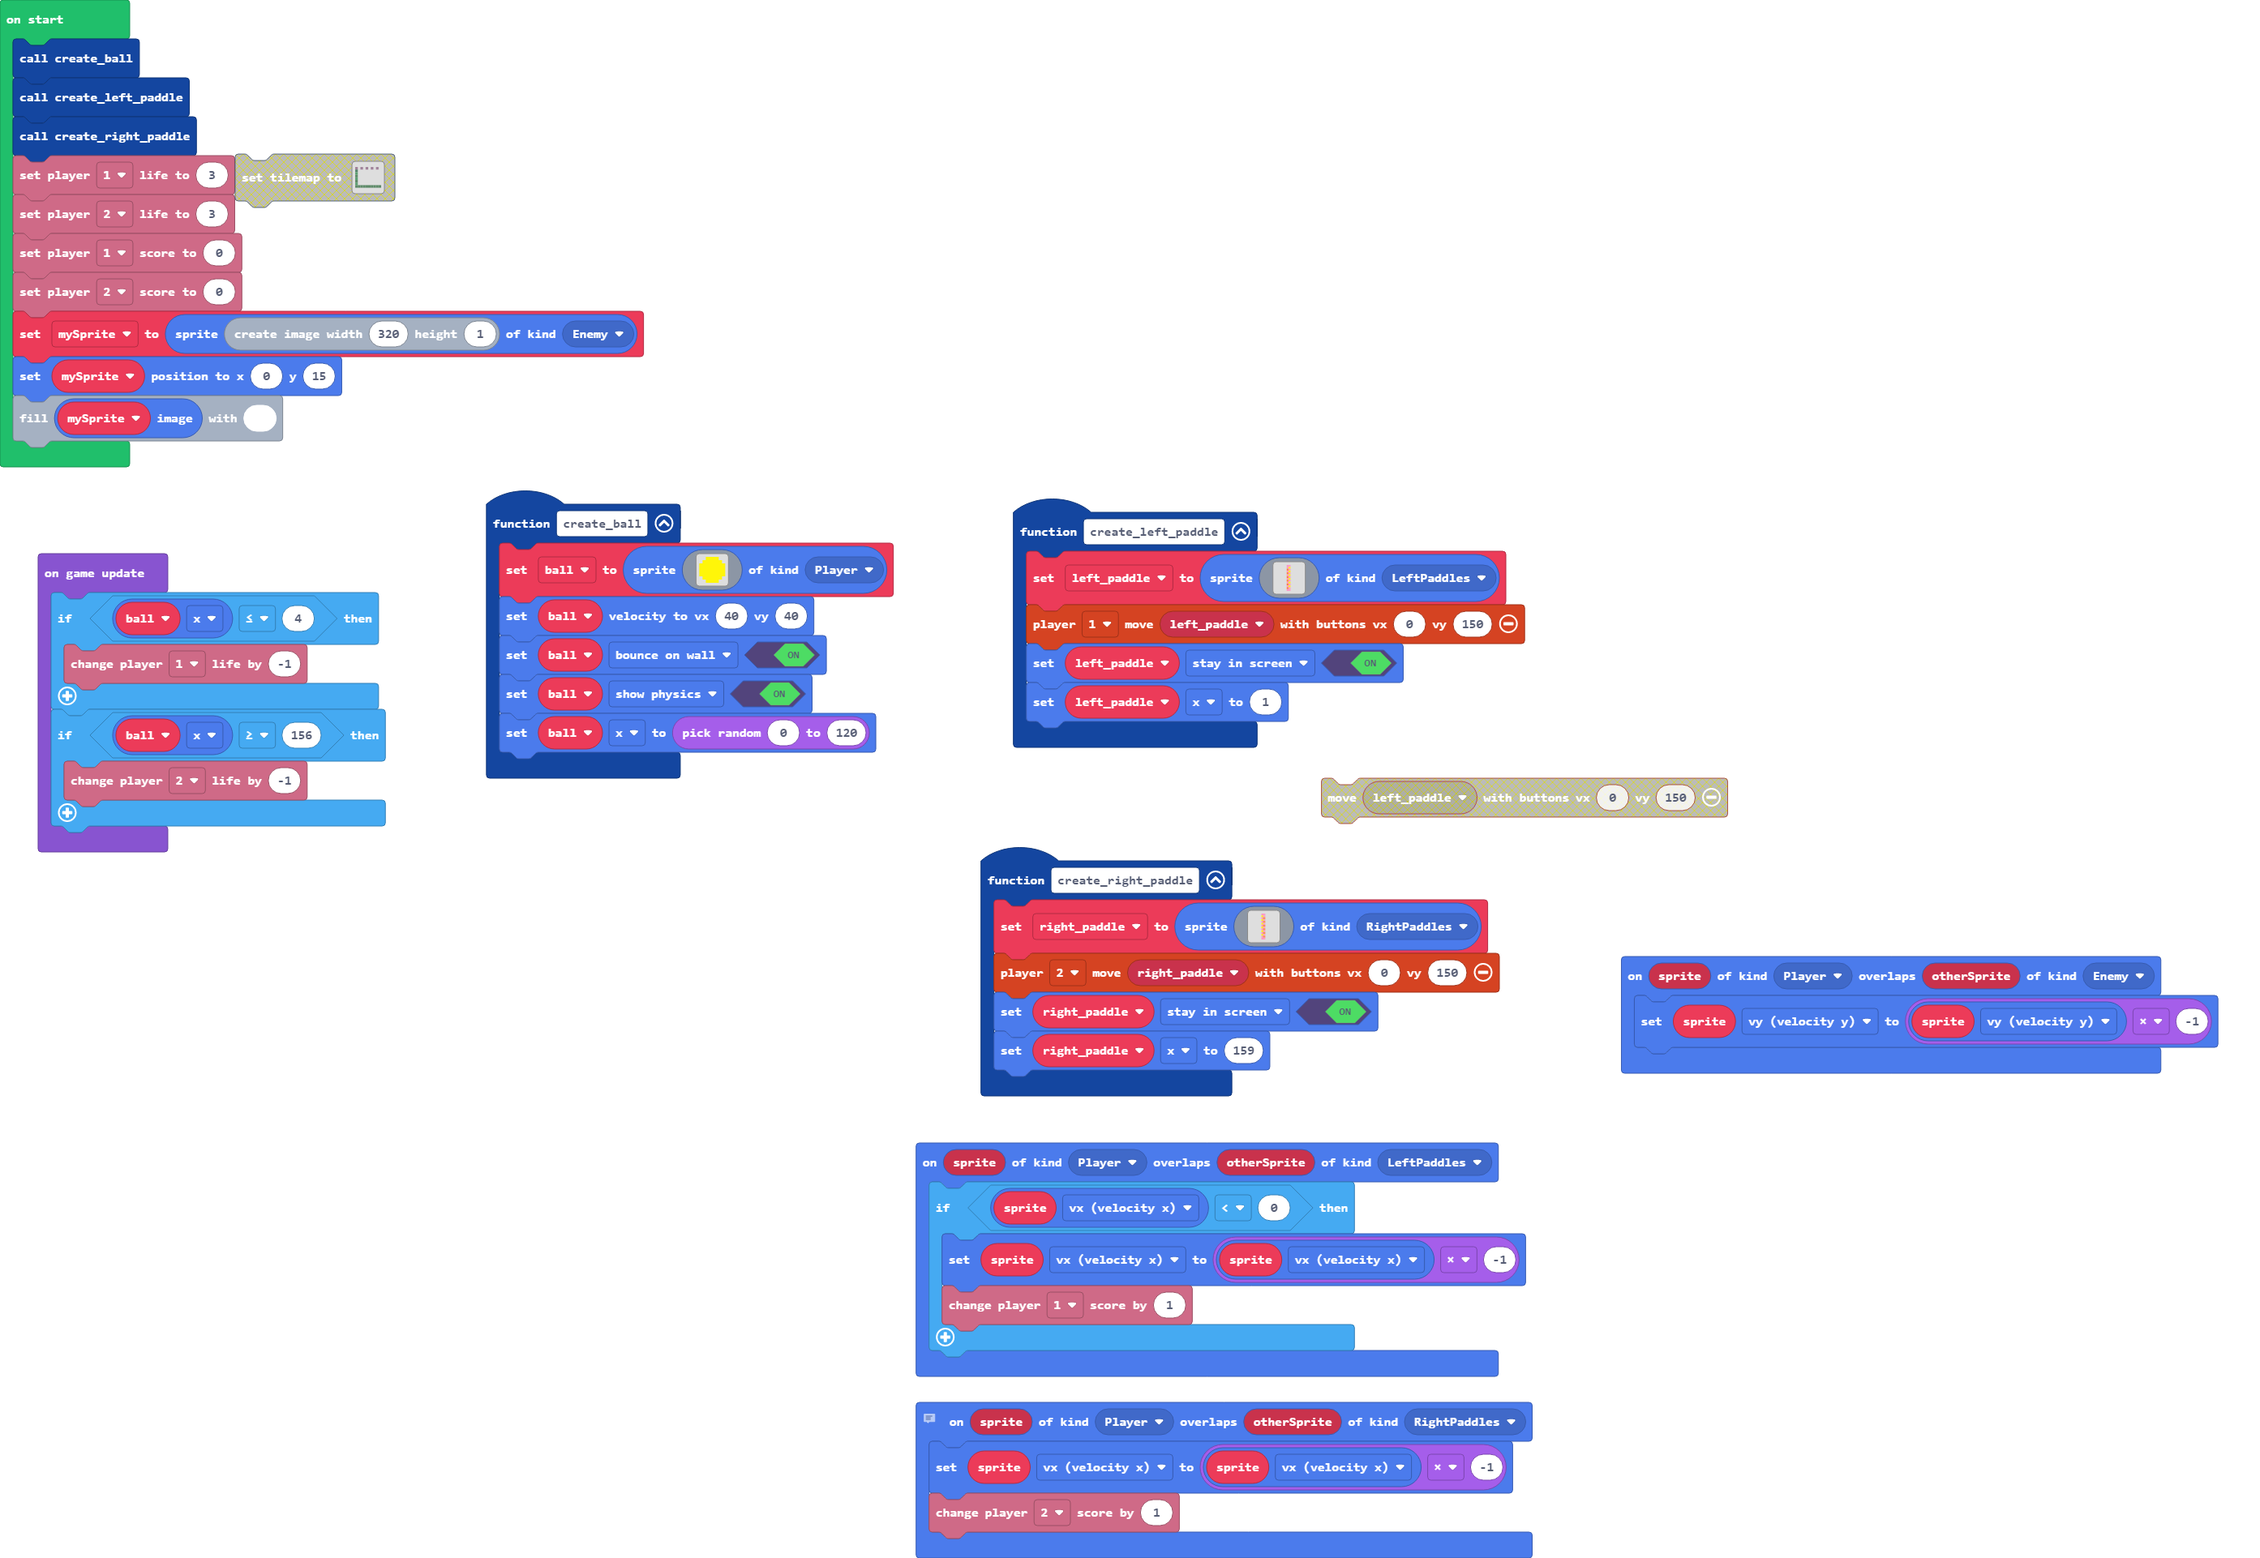
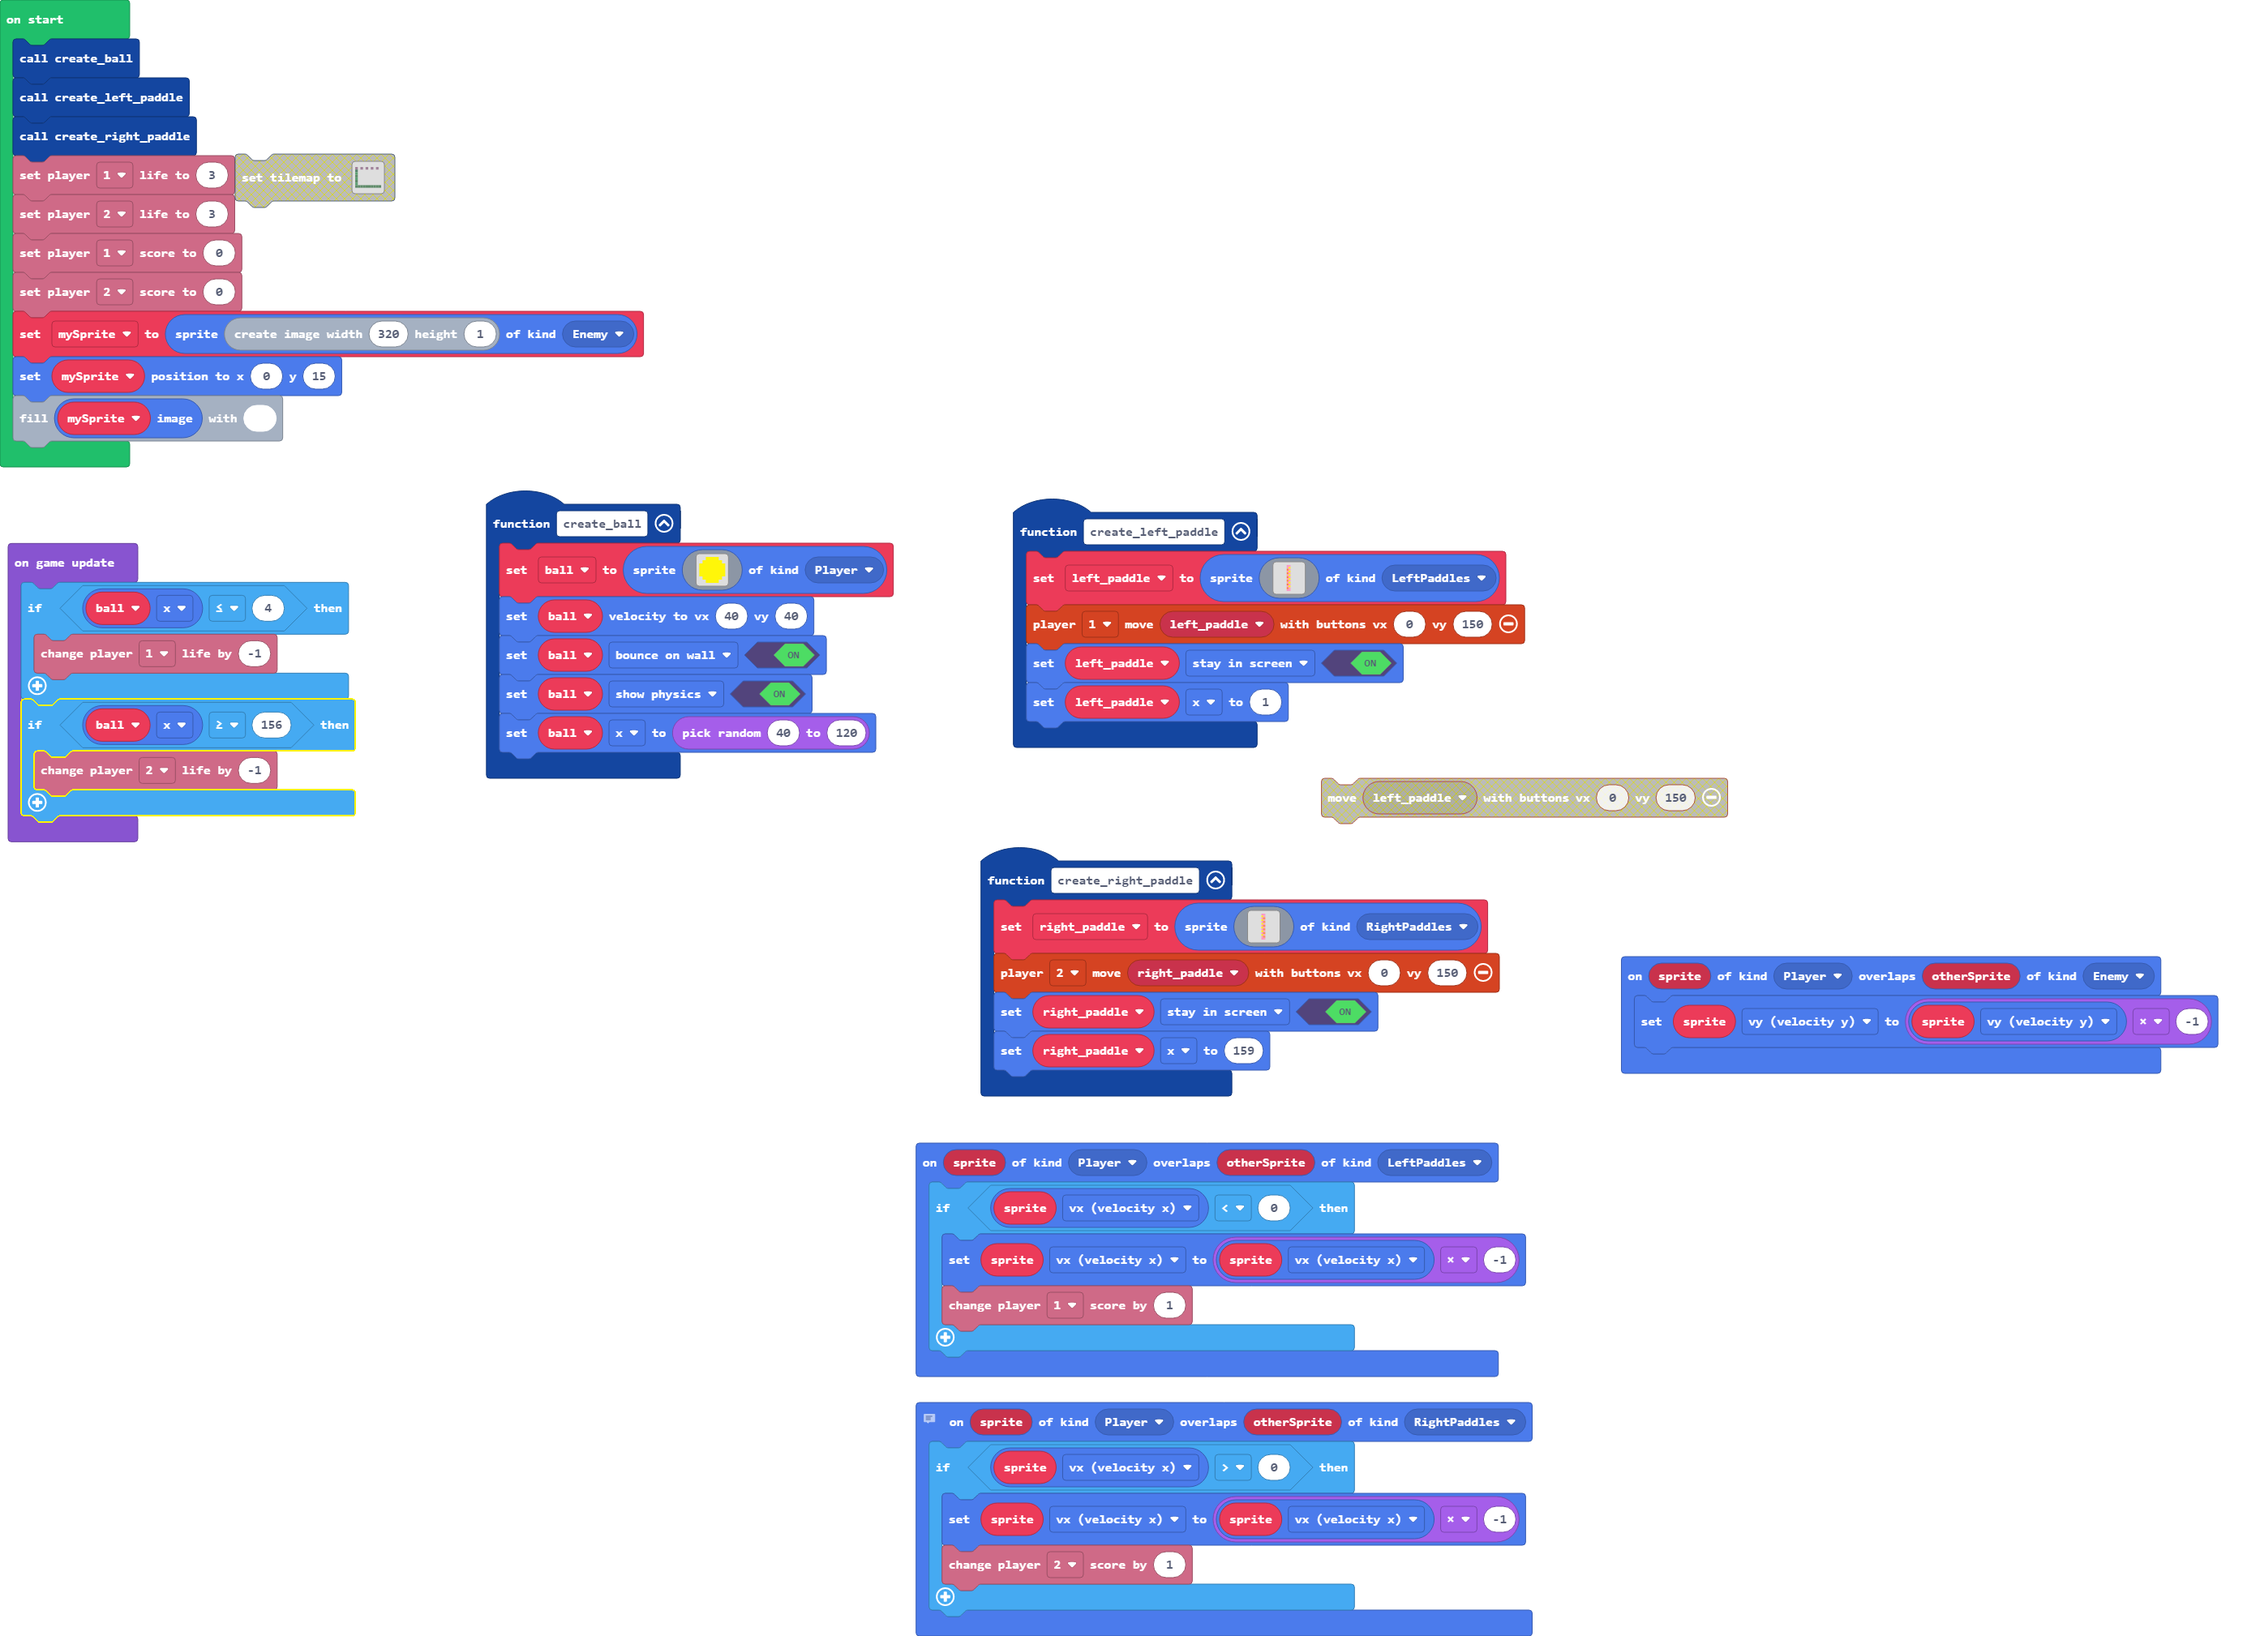
Update main.blocks, main.ts

diff --git a/main.ts b/main.ts
@@ -20,8 +20,10 @@ namespace SpriteKind {
 // 
 // scene.setTileMap(tileMap)
 sprites.onOverlap(SpriteKind.Player, SpriteKind.RightPaddles, function (sprite, otherSprite) {
-    sprite.vx = sprite.vx * -1
-    info.player2.changeScoreBy(1)
+    if (sprite.vx > 0) {
+        sprite.vx = sprite.vx * -1
+        info.player2.changeScoreBy(1)
+    }
 })
 function create_right_paddle () {
     right_paddle = sprites.create(img`
@@ -79,7 +81,7 @@ function create_ball () {
     ball.setVelocity(40, 40)
     ball.setFlag(SpriteFlag.BounceOnWall, true)
     ball.setFlag(SpriteFlag.ShowPhysics, true)
-    ball.x = randint(0, 120)
+    ball.x = randint(40, 120)
 }
 sprites.onOverlap(SpriteKind.Player, SpriteKind.LeftPaddles, function (sprite, otherSprite) {
     if (sprite.vx < 0) {
